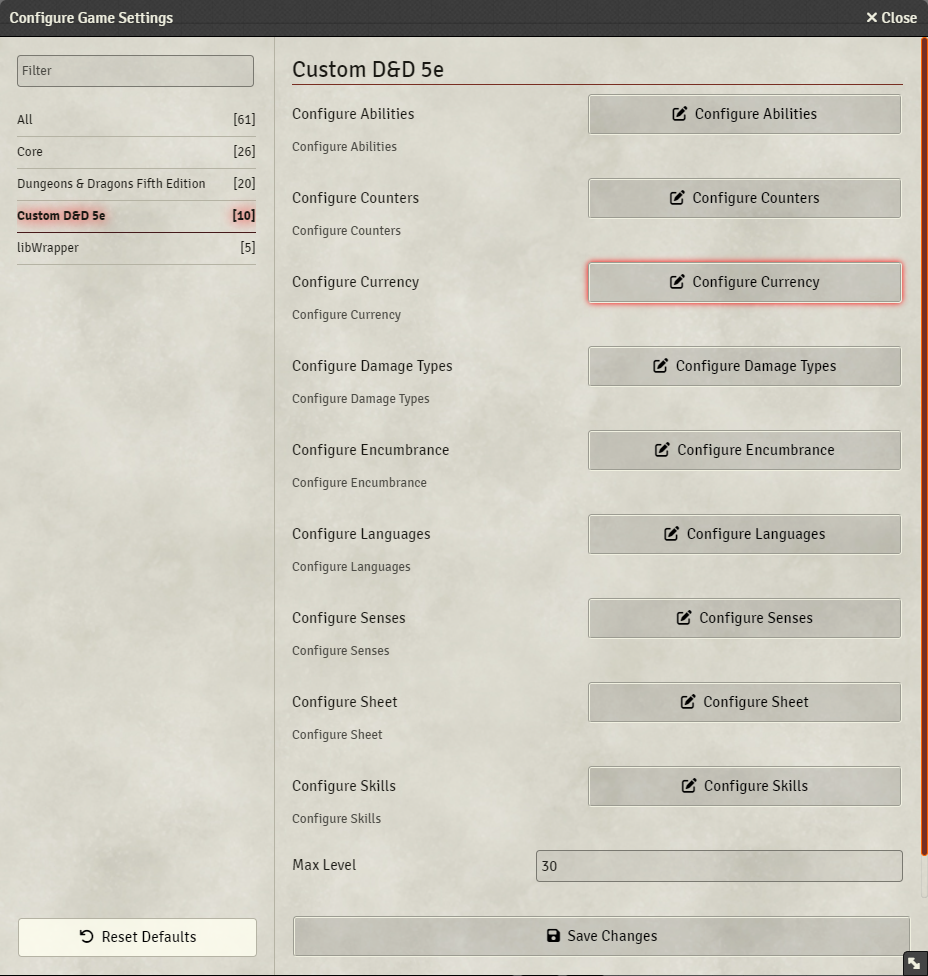
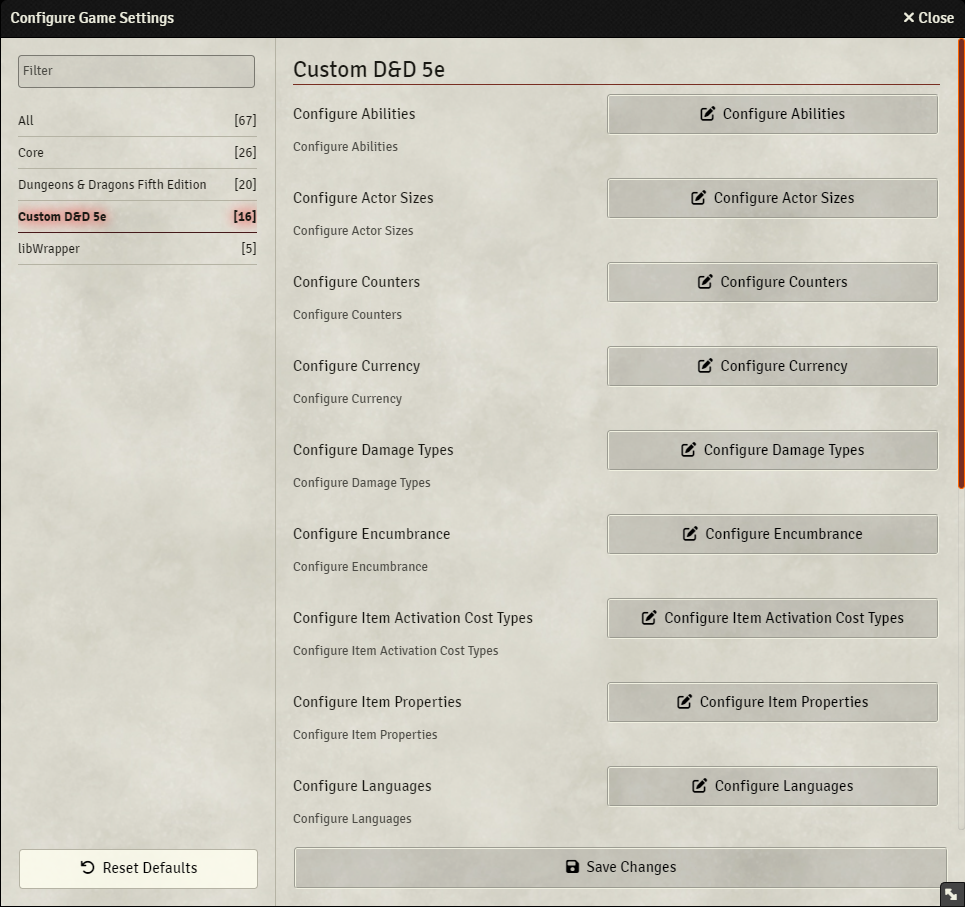
#2, Item Activation Type Costs - #2: Add modifers for equipped, proficient & equipped and unequipped. - Add Configue Item Activation Cost Types

diff --git a/scripts/encumbrance.js b/scripts/encumbrance.js
@@ -1,5 +1,5 @@
 import { CONSTANTS } from './constants.js'
-import { checkEmpty, registerMenu, registerSetting, resetDnd5eConfig } from './utils.js'
+import { checkEmpty, getSetting, registerMenu, registerSetting, resetDnd5eConfig } from './utils.js'
 import { EncumbranceForm } from './forms/encumbrance-form.js'
 
 /**
@@ -29,6 +29,36 @@ export function registerSettings () {
         }
     )
 
+    registerSetting(
+        CONSTANTS.ENCUMBRANCE.EQUIPPED_ITEM_WEIGHT_MODIFIER.SETTING.KEY,
+        {
+            scope: 'world',
+            config: false,
+            type: Number,
+            default: 1
+        }
+    )
+
+    registerSetting(
+        CONSTANTS.ENCUMBRANCE.PROFICIENT_EQUIPPED_ITEM_WEIGHT_MODIFIER.SETTING.KEY,
+        {
+            scope: 'world',
+            config: false,
+            type: Number,
+            default: 1
+        }
+    )
+
+    registerSetting(
+        CONSTANTS.ENCUMBRANCE.UNEQUIPPED_ITEM_WEIGHT_MODIFIER.SETTING.KEY,
+        {
+            scope: 'world',
+            config: false,
+            type: Number,
+            default: 1
+        }
+    )
+
     loadTemplates([
         CONSTANTS.ENCUMBRANCE.TEMPLATE.FORM
     ])
@@ -48,3 +78,38 @@ export function setConfig (data) {
 
     CONFIG.DND5E.encumbrance = data
 }
+
+/**
+ * Modified from Actor5e._prepareEncumbrance
+ */
+Hooks.on('preRenderActorSheet', (app, data) => {
+    const equippedMod = getSetting(CONSTANTS.ENCUMBRANCE.EQUIPPED_ITEM_WEIGHT_MODIFIER.SETTING.KEY) || 0
+    const proficientEquippedMod = getSetting(CONSTANTS.ENCUMBRANCE.PROFICIENT_EQUIPPED_ITEM_WEIGHT_MODIFIER.SETTING.KEY) || 0
+    const unequippedMod = getSetting(CONSTANTS.ENCUMBRANCE.UNEQUIPPED_ITEM_WEIGHT_MODIFIER.SETTING.KEY) || 0
+
+    if (equippedMod === 1 && proficientEquippedMod === 1 && unequippedMod === 1) return
+
+    const actor = data.actor
+    const config = CONFIG.DND5E.encumbrance
+    const units = game.settings.get('dnd5e', 'metricWeightUnits') ? 'metric' : 'imperial'
+    // Get the total weight from items
+    let weight = actor.items
+        .filter(item => !item.container)
+        .reduce((weight, item) => {
+            const equipped = item.system.equipped
+            const proficient = item.system.prof?.multiplier >= 1
+            const mod = (proficient) ? Math.min(proficientEquippedMod, equippedMod) : equippedMod
+            return weight + ((equipped) ? (item.system.totalWeight ?? 0) * mod : (item.system.totalWeight ?? 0) * unequippedMod || 0)
+        }, 0)
+
+    // [Optional] add Currency Weight (for non-transformed actors)
+    const currency = actor.system.currency
+    if (game.settings.get('dnd5e', 'currencyWeight') && currency) {
+        const numCoins = Object.values(currency).reduce((val, denom) => val + Math.max(denom, 0), 0)
+        const currencyPerWeight = config.currencyPerWeight[units]
+        weight += numCoins / currencyPerWeight
+    }
+
+    data.encumbrance.value = weight.toNearest(0.1)
+    data.encumbrance.pct = Math.clamped((data.encumbrance.value * 100) / data.encumbrance.max, 0, 100)
+})

diff --git a/scripts/forms/config-form.js b/scripts/forms/config-form.js
@@ -6,6 +6,7 @@ import { setConfig as setArmorTypes } from '../armor-types.js'
 import { setConfig as setActorSizes } from '../actor-sizes.js'
 import { setConfig as setCurrency } from '../currency.js'
 import { setConfig as setDamageTypes } from '../damage-types.js'
+import { setConfig as setItemActivationCostTypes } from '../item-activation-cost-types.js'
 import { setConfig as setLanguages } from '../languages.js'
 import { setConfig as setSenses } from '../senses.js'
 import { setConfig as setSkills } from '../skills.js'
@@ -127,10 +128,7 @@ class ConfigForm extends CustomDnd5eForm {
             }
         })
 
-        // Delete properties from this.setting
-        deleteKeys.forEach(key => {
-            deleteProperty(this.setting, key)
-        })
+        const data = {}
 
         // Set properties in this.setting
         Object.entries(formData).forEach(([key, value]) => {
@@ -139,11 +137,11 @@ class ConfigForm extends CustomDnd5eForm {
                 if (value === 'true') { return }
                 value = false
             }
-            setProperty(this.setting, key, value)
+            setProperty(data, key, value)
         })
 
-        await setSetting(this.settingKey, this.setting)
-        this.setFunction(this.setting)
+        await setSetting(this.settingKey, data)
+        this.setFunction(data)
 
         if (this.requiresReload) {
             SettingsConfig.reloadConfirm()
@@ -277,7 +275,6 @@ export class ActorSizesForm extends ConfigForm {
     }
 }
 
-
 export class ArmorTypesForm extends ConfigForm {
     constructor () {
         super()
@@ -379,6 +376,23 @@ export class DamageTypesForm extends ConfigForm {
         <i class="fas fa-xmark"></i>
         </button>
         <input id="delete" name="${data.key}.delete" type="hidden" value="false"`
+    }
+}
+
+export class ItemActivationCostTypesForm extends ConfigForm {
+    constructor () {
+        super()
+        this.requiresReload = false
+        this.settingKey = CONSTANTS.ITEM_ACTIVATION_COST_TYPES.SETTING.KEY
+        this.setFunction = setItemActivationCostTypes
+        this.type = 'abilityActivationCostTypes'
+    }
+
+    static get defaultOptions () {
+        return mergeObject(super.defaultOptions, {
+            id: `${MODULE.ID}-item-activation-cost-types-form`,
+            title: game.i18n.localize('CUSTOM_DND5E.form.itemActivationCostTypes.title')
+        })
     }
 }
 

diff --git a/scripts/item-activation-cost-types.js b/scripts/item-activation-cost-types.js
@@ -1,0 +1,58 @@
+import { CONSTANTS } from './constants.js'
+import { checkEmpty, registerMenu, registerSetting, resetDnd5eConfig } from './utils.js'
+import { ItemActivationCostTypesForm } from './forms/config-form.js'
+
+/**
+ * Register Settings
+ */
+export function registerSettings () {
+    registerMenu(
+        CONSTANTS.ITEM_ACTIVATION_COST_TYPES.MENU.KEY,
+        {
+            hint: game.i18n.localize(CONSTANTS.ITEM_ACTIVATION_COST_TYPES.MENU.HINT),
+            label: game.i18n.localize(CONSTANTS.ITEM_ACTIVATION_COST_TYPES.MENU.LABEL),
+            name: game.i18n.localize(CONSTANTS.ITEM_ACTIVATION_COST_TYPES.MENU.NAME),
+            icon: CONSTANTS.ITEM_ACTIVATION_COST_TYPES.MENU.ICON,
+            type: ItemActivationCostTypesForm,
+            restricted: true,
+            scope: 'world'
+        }
+    )
+
+    registerSetting(
+        CONSTANTS.ITEM_ACTIVATION_COST_TYPES.SETTING.KEY,
+        {
+            scope: 'world',
+            config: false,
+            type: Object,
+            default: CONFIG.CUSTOM_DND5E.abilityActivationTypes
+        }
+    )
+}
+
+/**
+ * Set CONFIG.DND5E.abilityActivationTypes
+ * @param {object} data
+ */
+export function setConfig (data) {
+    const buildConfig = (data) => Object.fromEntries(
+        Object.entries(data)
+            .filter(([_, value]) => value.visible || value.visible === undefined)
+            .map(([key, value]) => [
+                key,
+                game.i18n.localize(value.label)
+            ])
+    )
+
+    if (checkEmpty(data)) {
+        if (checkEmpty(CONFIG.DND5E.abilityActivationTypes)) {
+            resetDnd5eConfig('abilityActivationTypes')
+        }
+        return
+    }
+
+    const abilityActivationTypes = buildConfig(data)
+    if (abilityActivationTypes) {
+        CONFIG.DND5E.abilityActivationTypes = abilityActivationTypes
+    }
+}

diff --git a/scripts/module.js b/scripts/module.js
@@ -9,6 +9,7 @@ import { registerSettings as registerCurrencySettings, setConfig as setCurrency 
 import { registerSettings as registerDamageTypesSettings, setConfig as setDamageTypes } from './damage-types.js'
 import { registerSettings as registerDebugSettings } from './debug.js'
 import { registerSettings as registerEncumbranceSettings, setConfig as setEncumbrance } from './encumbrance.js'
+import { registerSettings as registerItemActivationCostTypesSettings, setConfig as setItemActivationCostTypes } from './item-activation-cost-types.js'
 import { registerSettings as registerItemPropertiesSettings, setConfig as setItemProperties } from './item-properties.js'
 import { registerSettings as registerLanguagesSettings, setConfig as setLanguages } from './languages.js'
 import { registerSettings as registerSensesSettings, setConfig as setSenses } from './senses.js'
@@ -30,6 +31,7 @@ Hooks.on('init', async () => {
     registerCurrencySettings()
     registerDamageTypesSettings()
     registerEncumbranceSettings()
+    registerItemActivationCostTypesSettings()
     registerItemPropertiesSettings()
     registerLanguagesSettings()
     registerSensesSettings()
@@ -75,6 +77,7 @@ Hooks.on('ready', async () => {
     setCurrency(getSetting(CONSTANTS.CURRENCY.SETTING.KEY) || {})
     setDamageTypes(getSetting(CONSTANTS.DAMAGE_TYPES.SETTING.KEY) || {})
     setEncumbrance(getSetting(CONSTANTS.ENCUMBRANCE.SETTING.KEY) || {})
+    setItemActivationCostTypes(getSetting(CONSTANTS.ITEM_ACTIVATION_COST_TYPES.SETTING.KEY))
     setItemProperties(getSetting(CONSTANTS.ITEM_PROPERTIES.SETTING.KEY))
     setLanguages(getSetting(CONSTANTS.LANGUAGES.SETTING.KEY) || {})
     setSenses(getSetting(CONSTANTS.SENSES.SETTING.KEY) || {})

diff --git a/scripts/forms/encumbrance-form.js b/scripts/forms/encumbrance-form.js
@@ -27,6 +27,9 @@ export class EncumbranceForm extends CustomDnd5eForm {
     async getData () {
         const data = this.setting
         data.metric = this.metric
+        data.equippedItemWeightModifier = getSetting(CONSTANTS.ENCUMBRANCE.EQUIPPED_ITEM_WEIGHT_MODIFIER.SETTING.KEY)
+        data.proficientEquippedItemWeightModifier = getSetting(CONSTANTS.ENCUMBRANCE.PROFICIENT_EQUIPPED_ITEM_WEIGHT_MODIFIER.SETTING.KEY)
+        data.unequippedItemWeightModifier = getSetting(CONSTANTS.ENCUMBRANCE.UNEQUIPPED_ITEM_WEIGHT_MODIFIER.SETTING.KEY)
 
         return data
     }
@@ -63,11 +66,20 @@ export class EncumbranceForm extends CustomDnd5eForm {
     }
 
     async _updateObject (event, formData) {
+        const ignore = ['equippedItemWeightModifier', 'proficientEquippedItemWeightModifier', 'unequippedItemWeightModifier']
+
         Object.entries(formData).forEach(([key, value]) => {
+            if (ignore.includes(key)) return
+
             setProperty(this.setting, key, value)
         })
 
-        await setSetting(this.settingKey, this.setting)
+        await Promise.all([
+            setSetting(this.settingKey, this.setting),
+            setSetting(CONSTANTS.ENCUMBRANCE.EQUIPPED_ITEM_WEIGHT_MODIFIER.SETTING.KEY, formData.equippedItemWeightModifier),
+            setSetting(CONSTANTS.ENCUMBRANCE.PROFICIENT_EQUIPPED_ITEM_WEIGHT_MODIFIER.SETTING.KEY, formData.proficientEquippedItemWeightModifier),
+            setSetting(CONSTANTS.ENCUMBRANCE.UNEQUIPPED_ITEM_WEIGHT_MODIFIER.SETTING.KEY, formData.unequippedItemWeightModifier)
+        ])
         this.setFunction(this.setting)
     }
 }

diff --git a/scripts/constants.js b/scripts/constants.js
@@ -147,6 +147,21 @@ export const CONSTANTS = {
         }
     },
     ENCUMBRANCE: {
+        EQUIPPED_ITEM_WEIGHT_MODIFIER: {
+            SETTING: {
+                KEY: 'equipped-item-weight-modifier'
+            }
+        },
+        PROFICIENT_EQUIPPED_ITEM_WEIGHT_MODIFIER: {
+            SETTING: {
+                KEY: 'proficient-equipped-item-weight-modifier'
+            }
+        },
+        UNEQUIPPED_ITEM_WEIGHT_MODIFIER: {
+            SETTING: {
+                KEY: 'unequipped-item-weight-modifier'
+            }
+        },
         ID: 'encumbrance',
         MENU: {
             KEY: 'encumbrance-menu',
@@ -160,6 +175,19 @@ export const CONSTANTS = {
         },
         TEMPLATE: {
             FORM: 'modules/custom-dnd5e/templates/encumbrance-form.hbs'
+        }
+    },
+    ITEM_ACTIVATION_COST_TYPES: {
+        ID: 'item-activation-cost-types',
+        MENU: {
+            KEY: 'item-activation-cost-types-menu',
+            HINT: 'CUSTOM_DND5E.menu.itemActivationCostTypes.hint',
+            ICON: 'fas fa-pen-to-square',
+            LABEL: 'CUSTOM_DND5E.menu.itemActivationCostTypes.label',
+            NAME: 'CUSTOM_DND5E.menu.itemActivationCostTypes.name'
+        },
+        SETTING: {
+            KEY: 'item-activation-cost-types'
         }
     },
     ITEM_PROPERTIES: {

diff --git a/README.md b/README.md
@@ -10,6 +10,7 @@ A Foundry VTT module to customise the D&D 5e system.
 # Features
 ## Counters
 **Counter Types:** Add four types of counter to the character sheets: checkbox, fraction, number and success/failure.
+
 **Triggers:** Set triggers to automatically change a counter value when an actor hits 0 HP, half HP, or when combat ends if they hit 0 HP any time during combat. Set a trigger to automatically make an actor dead when a counter hits a defined value.
 
 ![Custom D&D 5e Counters](./.github/readme/custom-dnd5e-counters.gif)
@@ -18,6 +19,9 @@ A Foundry VTT module to customise the D&D 5e system.
 
 ## Configurations
 - Configure abilities, actor sizes, currencies, damage types, encumbrance, item properties, languages, senses, skills and max level.
+
+## Configure Encumbrance
+![Custom D&D 5e Configure Encumbrance](./.github/readme/custom-dnd5e-configure-encumbrance.png)
 
 ## Configure Sheet
 - Auto-fade or auto-minimise the sheet when it's not hovered over.
@@ -28,6 +32,8 @@ A Foundry VTT module to customise the D&D 5e system.
 ## House Rules
 - When rolling for Hit Points, automatically re-roll 1s.
 - Hide the Take Average option when rolling for Hit Points.
+
+![Custom D&D 5e Level Up Hit Points](./.github/readme/custom-dnd5e-level-up-hit-points.png)
 
 # Wishlist
 - Add common house rules.
